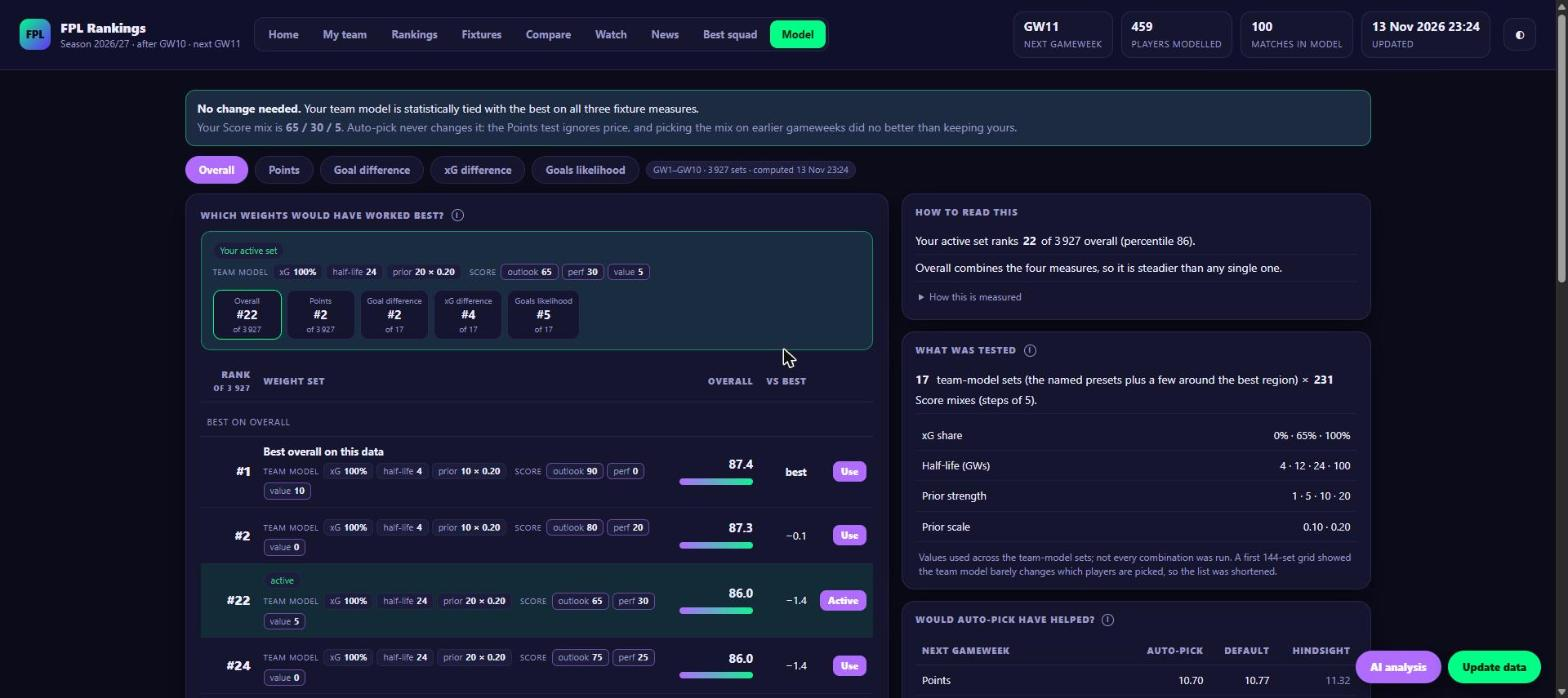
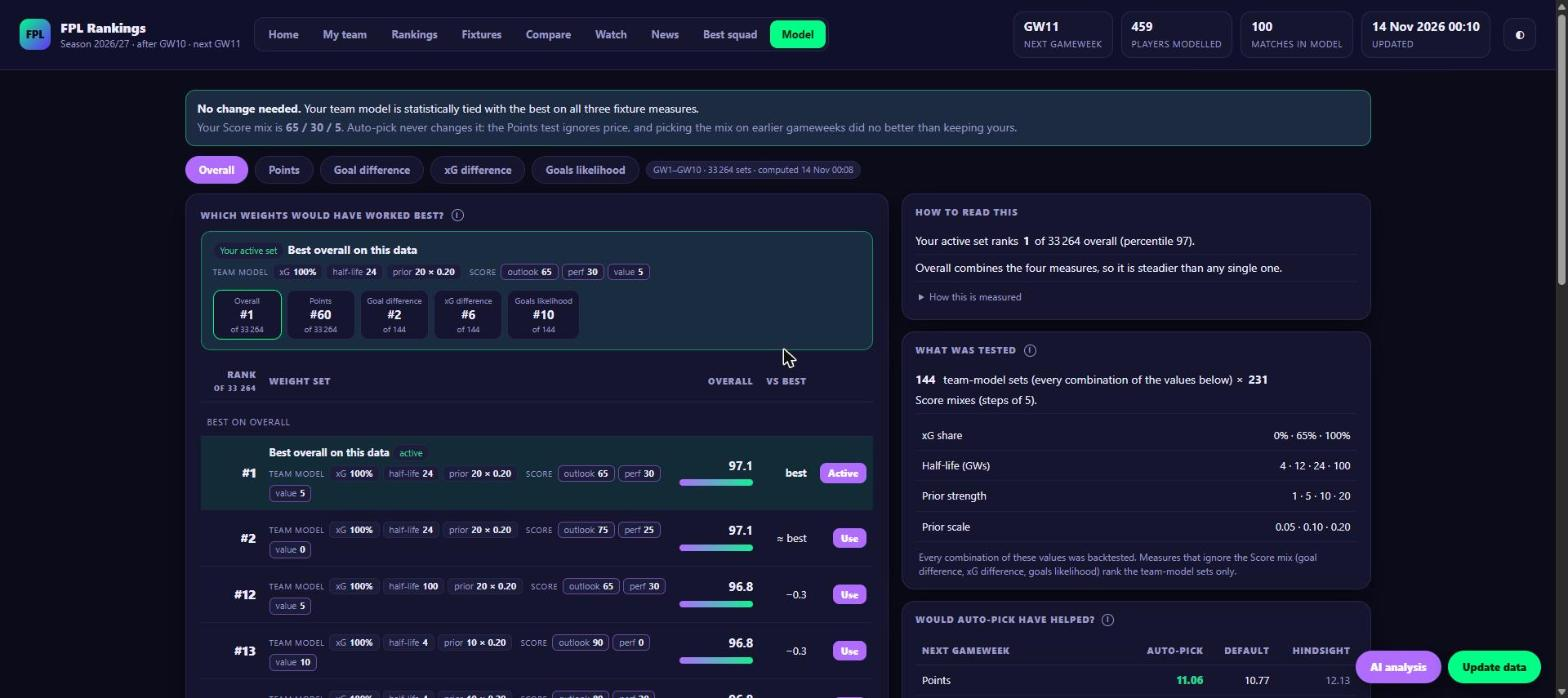
Restore the full 144-set team-model grid (33,264 sets)
- backtest: TM_SETS is the full product of xg_weight x half_life_gw x
  prior_strength x prior_scale (3 x 4 x 4 x 3). About 40 s once per finished
  gameweek instead of 5 s.
- Page text, README and docs/MODEL.md updated with the 144-set results:
  walk-forward (auto-pick ahead on all four measures on average, none clearly
  beyond the noise), and the past-season check (default ranks 45th of 144 on
  goal difference; this season's auto-pick is second best on past seasons).
- New screenshot and demo GIF.

diff --git a/app/board_template.html b/app/board_template.html
@@ -1152,9 +1152,9 @@ function viewModel() {
         <div class="mvline">${stabV === null ? '' : `Stability <b class="num">${stabV >= 0 ? '+' : ''}${stabV}</b>&nbsp;· `}${stab}</div>
         <details class="note"><summary>How this is measured</summary>Each set is refitted for every finished gameweek using only earlier data, then scored on what followed. One season and ${B.gws[1]} gameweeks: the best of ${B.n_sets.toLocaleString()} sets is flattered by being picked on the same data, so treat a tie as a tie. Points start at GW${B.pgws[0]} (the player model needs history). Goal difference, xG and likelihood do not depend on the Score mix, so those views list distinct team-model sets. xG-heavy sets are partly judged on the quantity they fit. The noise for Points allows for the 3-gameweek windows overlapping (Newey-West).</details></div>
       <div class="card section"><h3 class="panel-title">What was tested ${info('ws_params')}</h3>
-        <div class="mvline"><b class="num">${B.n_team}</b>&nbsp;team-model sets (the named presets plus a few around the best region) × <b class="num">${B.n_mix}</b> Score mixes (steps of 5).</div>
+        <div class="mvline"><b class="num">${B.n_team}</b>&nbsp;team-model sets (every combination of the values below) × <b class="num">${B.n_mix}</b> Score mixes (steps of 5).</div>
         <table class="mt"><tbody><tr><td>xG share</td><td class="r num">${g.xg_weight.map(v => Math.round(v * 100) + '%').join(' · ')}</td></tr><tr><td>Half-life (GWs)</td><td class="r num">${g.half_life_gw.join(' · ')}</td></tr><tr><td>Prior strength</td><td class="r num">${g.prior_strength.join(' · ')}</td></tr><tr><td>Prior scale</td><td class="r num">${g.prior_scale.map(v => v.toFixed(2)).join(' · ')}</td></tr></tbody></table>
-        <div class="note">Values used across the team-model sets; not every combination was run. A first 144-set grid showed the team model barely changes which players are picked, so the list was shortened.</div></div>
+        <div class="note">Every combination of these values was backtested. Measures that ignore the Score mix (goal difference, xG difference, goals likelihood) rank the team-model sets only.</div></div>
       ${WF ? `<div class="card section"><h3 class="panel-title">Would auto-pick have helped? ${info('ws_wf')}</h3>
         <table class="mt"><thead><tr><th>Next gameweek</th><th class="r">Auto-pick</th><th class="r">Default</th><th class="r" data-tip="The best set in hindsight on that gameweek: a ceiling no rule can reach." tabindex="0">Hindsight</th></tr></thead><tbody>
         ${[['pts', 'Points', 0], ['gd', 'Goal difference', 1], ['xgd', 'xG difference', 2], ['ll', 'Goals likelihood', 3]].map(([k, n, m]) => `<tr><td>${n}</td><td class="r num ${WF.team.diff[k].mean > 0 ? 'cmpbest' : ''}">${wsFmt(m, WF.team.picked[k])}</td><td class="r num">${wsFmt(m, WF.team.default[k])}</td><td class="r num muted">${wsFmt(m, WF.team.oracle[k])}</td></tr>`).join('')}

diff --git a/app/backtest.py b/app/backtest.py
@@ -137,14 +137,10 @@ def _fdr_summary(recs, gws):
 
 # ---------------------------------------------------------------- weight sets (team model + score weights)
 TM_KEYS = ("xg_weight", "half_life_gw", "prior_strength", "prior_scale")
-# The team-model sets that are backtested: the named presets first, then a few around the region that scored best. The
-# review of the first 144-set grid showed the team model barely changes which players are picked (87% of the variation in
-# Points came from the Score mix, 7% from the team model), so a short list gives the same answer in seconds.
-TM_SETS = [(0.65, 12, 5, 0.10), (0.65, 12, 20, 0.20), (0.65, 12, 1, 0.10), (0.65, 4, 5, 0.10), (0.65, 100, 5, 0.10),
-           (1.0, 12, 5, 0.10), (0.0, 12, 5, 0.10),
-           (0.65, 12, 10, 0.20), (1.0, 24, 20, 0.20), (1.0, 4, 10, 0.20), (0.65, 24, 10, 0.20), (0.65, 4, 10, 0.20),
-           (1.0, 12, 20, 0.20), (1.0, 100, 20, 0.20), (0.65, 12, 10, 0.10), (0.65, 12, 20, 0.10), (0.0, 12, 20, 0.20)]
-TM_GRID = {k: sorted({t[i] for t in TM_SETS}) for i, k in enumerate(TM_KEYS)}      # the values used, for display
+# Every combination of these values is backtested: 3 x 4 x 4 x 3 = 144 team-model sets (each refit takes about a millisecond).
+TM_GRID = {"xg_weight": [0.0, 0.65, 1.0], "half_life_gw": [4, 12, 24, 100],
+           "prior_strength": [1, 5, 10, 20], "prior_scale": [0.05, 0.10, 0.20]}
+TM_SETS = list(itertools.product(*TM_GRID.values()))
 WF_START = 6                                          # first gameweek of the walk-forward test (needs a few gameweeks of history)
 TM_DEFAULT = {"xg_weight": 0.65, "half_life_gw": 12, "prior_strength": 5.0, "prior_scale": 0.10}
 W_DEFAULT = (60, 25, 15)

diff --git a/tools/multi_season.py b/tools/multi_season.py
@@ -121,7 +121,7 @@ def main():
             ov = np.nanmean(np.concatenate([offs[s][k] for s in seasons]))
             offall = np.concatenate([offs[s_][k] for s_ in seasons]); dd = allT[k][d0] - offall
             print(f"   official FDR  {ov:+.4f}  (best set {v[best]:+.4f}, default {v[d0]:+.4f}); default minus FDR {np.nanmean(dd):+.4f} (se {float(bt._se(dd, 0)):.4f}), default better in {int((dd > 0).sum())} of {int((~np.isnan(dd)).sum())} gameweeks")
-    print("\nIs the ordering of sets stable from one season to the next? (rank correlation of the 17 set scores)")
+    print(f"\nIs the ordering of sets stable from one season to the next? (rank correlation of the {nS} set scores)")
     for k in ("gd", "xgd", "ll"):
         for a in range(len(seasons)):
             for b in range(a + 1, len(seasons)):

diff --git a/tests/test_core.py b/tests/test_core.py
@@ -161,7 +161,8 @@ class WeightSets(unittest.TestCase):
         for nm, x, _ in bt.PRESETS:
             self.assertIn(tuple(x[:4]), bt.TM_SETS, nm)
             self.assertIn(tuple(x[4:]), bt.MIX, nm)
-        self.assertEqual(bt._find({}, (0.65, 12, 5, 0.10, 60, 25, 15)), (0, bt.MIX.index((60, 25, 15))))
+        self.assertEqual(len(bt.TM_SETS), 144)
+        self.assertEqual(bt._find({}, (0.65, 12, 5, 0.10, 60, 25, 15)), (bt.TM_SETS.index((0.65, 12, 5, 0.10)), bt.MIX.index((60, 25, 15))))
         self.assertIsNone(bt._find({}, (0.5, 12, 5, 0.10, 60, 25, 15)))
 
     def test_overlap_aware_noise_is_never_below_the_plain_one(self):

diff --git a/docs/MODEL.md b/docs/MODEL.md
@@ -22,7 +22,7 @@ flowchart LR
     B --> C["② Fixture difficulty<br/>expected goals for / against"]
     C --> D["③ Expected points<br/>per player, per fixture"]
     D --> E["④ Score<br/>outlook · perf · value"]
-    F["Weight-set backtest<br/>3,927 sets"] -. "auto-pick chooses" .-> B
+    F["Weight-set backtest<br/>33,264 sets"] -. "auto-pick chooses" .-> B
     F -. "informs (you choose)" .-> E
 ```
 
@@ -97,13 +97,13 @@ The question it answers: ***which settings would have worked best so far?*** It 
 
 A set is seven numbers: the four team-model settings plus the three Score weights.
 
-- **Team model:** 17 sets (`xg_weight`, `half_life_gw`, `prior_strength`, `prior_scale`): the seven named presets plus ten around the region that scored best. Values used: `xg_weight` 0 / 0.65 / 1.0, `half_life_gw` 4 / 12 / 24 / 100, `prior_strength` 1 / 5 / 10 / 20, `prior_scale` 0.05 / 0.10 / 0.20. Not every combination is run.
+- **Team model:** 144 sets, every combination of `xg_weight` 0 / 0.65 / 1.0, `half_life_gw` 4 / 12 / 24 / 100, `prior_strength` 1 / 5 / 10 / 20 and `prior_scale` 0.05 / 0.10 / 0.20 (3 × 4 × 4 × 3).
 - **Score mix:** outlook / perf / value in steps of 5 summing to 100 (231 mixes).
 
-**17** team-model sets × **231** Score mixes = **3,927 sets**, each backtested in about five seconds.
+**144** team-model sets × **231** Score mixes = **33,264 sets**, each backtested in about 40 seconds, once per finished gameweek.
 
 > [!NOTE]
-> The first version ran a full 144-set grid of team models (33,264 sets, 40 seconds). Checking it showed that in the Points measure **87% of the variation came from the Score mix and only 7% from the team model**, and the default and the auto-picked team model produced almost the same player rankings (rank correlation 0.999; 8 of the top 8 defenders, 7 of 8 midfielders, 5 of 5 forwards and 3 of 3 goalkeepers identical). The team model mainly changes the fixture colours, so the list was shortened.
+> **Where the variation comes from.** In the Points measure **87% of the variation comes from the Score mix and only 7% from the team model**, and the default and the auto-picked team model produce almost the same player rankings (rank correlation 0.999; 8 of the top 8 defenders, 7 of 8 midfielders, 5 of 5 forwards and 3 of 3 goalkeepers identical). The team model mainly changes the fixture colours, not who is picked, so most of its 144 sets are statistically tied.
 
 ### The four measures
 
@@ -114,7 +114,7 @@ A set is seven numbers: the four team-model settings plus the three Score weight
 | **xG difference** | the same against the xG difference, which is less noisy than the score | team model only |
 | **Goals likelihood** | the average log-probability of the goals each team really scored under the set's expected goals (closer to 0 is better); rewards calibrated expected goals, not only a good ranking | team model only |
 
-The last three ignore the Score mix, so there are only **17 distinct scores** for them, each repeated for all 231 mixes. That is why those views rank "of 17" and Points ranks "of 3,927".
+The last three ignore the Score mix, so there are only **144 distinct scores** for them, each repeated for all 231 mixes. That is why those views rank "of 144" and Points ranks "of 33,264".
 
 > [!WARNING]
 > **Points ignores price.** It scores the top picks with no budget, so it always favours a low `value` weight. Use it to compare team models, not to decide how much price should matter. This is why auto-pick never changes your Score weights.
@@ -177,15 +177,15 @@ The fair test: for each test gameweek, choose using **only earlier gameweeks**, 
 
 | Team model, scored on the next gameweek | Auto-pick minus default |
 |---|---|
-| xG difference | **+0.103** ± 0.056 (better in 4 of 5) |
-| Goal difference | +0.100 ± 0.102 (3 of 5) |
-| Goals likelihood | +0.009 ± 0.009 (3 of 5) |
-| Points (default Score mix) | −0.07 ± 0.12 (1 of 5): no clear difference |
+| Goal difference | +0.104 ± 0.106 (better in 3 of 5) |
+| xG difference | +0.093 ± 0.066 (3 of 5) |
+| Goals likelihood | +0.009 ± 0.010 (4 of 5) |
+| Points (default Score mix) | +0.30 ± 0.23 (3 of 5) |
 
 Picking the **Score mix** the same way did no better than keeping 60 / 25 / 15 (−0.007 ± 0.16 points) and swung between very different mixes, choosing a value weight of 0 in four of five weeks. That is why auto-pick leaves the mix to you.
 
 > [!NOTE]
-> Five test gameweeks is very little: only large effects are visible. The team-model result is encouraging (it helps the fixture measures and does not hurt Points) but it is not proof.
+> Five test gameweeks is very little: only large effects are visible, and none of these differences is larger than about 1.4 times its noise. The direction is encouraging (it is ahead on all four measures on average, and the picks settled on xG only with `prior_strength` 20 and `prior_scale` 0.20 from GW9) but it is not proof. An earlier run with a shorter list of team-model sets gave a similar picture on the fixture measures (xG difference +0.10 ± 0.06) and no clear difference on Points in either direction (−0.07 ± 0.12 there, +0.30 ± 0.23 here), so the conclusion does not hinge on the list.
 
 ### Clean-sheet calibration
 
@@ -199,7 +199,7 @@ Over 180 team-fixtures the model predicts 23% clean sheets and 28% happened; the
 
 ## More data: past seasons
 
-This season only has ten gameweeks, so `tools/multi_season.py` re-scores the same 17 team-model sets on three past seasons (2022-23, 2023-24, 2024-25: 112 gameweeks) from the public archive [vaastav/Fantasy-Premier-League](https://github.com/vaastav/Fantasy-Premier-League). Only the three team-model measures can be compared: past seasons have no `defensive_contribution` points (introduced in 2025-26), and seasons before 2022-23 have no xG.
+This season only has ten gameweeks, so `tools/multi_season.py` re-scores the same 144 team-model sets on three past seasons (2022-23, 2023-24, 2024-25: 112 gameweeks) from the public archive [vaastav/Fantasy-Premier-League](https://github.com/vaastav/Fantasy-Premier-League). Only the three team-model measures can be compared: past seasons have no `defensive_contribution` points (introduced in 2025-26), and seasons before 2022-23 have no xG.
 
 ```
 python tools/multi_season.py        # downloads about 5 MB per season into data/history/ (git-ignored)
@@ -208,8 +208,8 @@ python tools/multi_season.py        # downloads about 5 MB per season into data/
 | | Result over 112 gameweeks |
 |---|---|
 | **Model vs FPL's official difficulty** | rank correlation of ease with goal difference: model **+0.47** (default) vs official **+0.35**, a gap of **+0.12 ± 0.02**, ahead in 79 of 112 gameweeks. Against xG difference: **+0.50** vs **+0.36**, gap **+0.14 ± 0.015**, ahead in 83 of 112. |
-| **Do the settings matter?** | Very little. On xG difference all 17 sets are within noise of each other except two. On goal difference 4 of 17 are tied with the best; the default ranks 13th, 0.025 behind (about 3 times the noise). |
-| **Is the ordering stable season to season?** | For goals likelihood, yes: rank correlations between seasons of +0.80 to +0.88. For goal difference, partly (+0.31 to +0.73). For xG difference, no (−0.63 to +0.14): that ordering is mostly noise. |
-| **Which direction wins consistently?** | On goals likelihood the best sets all use xG only with a strong pull toward FPL's ratings (`prior_strength` 10 to 20, `prior_scale` 0.20). The default's likelihood is −1.509 against −1.500 for the best: a small gap (0.6%) but about 3.5 times the noise. |
+| **Do the settings matter?** | Little. On xG difference 66 of 144 sets are tied with the best (the default is 21st, 0.004 behind, inside the noise). On goal difference 10 of 144 are tied with the best; the default ranks 45th, 0.025 behind (about 3 times the noise). |
+| **Is the ordering stable season to season?** | For goals likelihood, yes: rank correlations between seasons of +0.75 to +0.92. For goal difference, partly (+0.32 to +0.74). For xG difference, no (−0.35 to +0.71): that ordering is mostly noise. |
+| **Which direction wins consistently?** | On goals likelihood the best sets all use xG only with a strong pull toward FPL's ratings (`prior_strength` 10 to 20, `prior_scale` 0.20). The default's likelihood is −1.509 against −1.500 for the best (rank 37 of 144): a small gap (0.6%) but about 3.5 times the noise. This season's auto-pick, `xg_weight` 1.0 / `half_life_gw` 4 / `prior_strength` 20 / `prior_scale` 0.2, is the second best of all 144 on past-season goal difference. |
 
 Caveats: the archive stores each fixture's **final** difficulty rating (FPL publishes only the current one; this app now records it as it changes in `data/fdr_history.json`, so future comparisons use what was shown at the time); the official rating is deliberately coarse (2 to 5) and ties cost it some rank correlation, so read this as "clearly better at ranking fixtures", not as a precise margin; and only the team-model measures carry over, not Points.

diff --git a/README.md b/README.md
@@ -55,7 +55,7 @@ First run sets itself up (creates `data/` and `output/`, installs `numpy` and `s
 | Last check was less than `min_refresh_minutes` ago | no network at all |
 | Nothing changed (results, prices, injury news) | fetches ~2 MB, prints "Up to date", rebuilds nothing |
 | Something changed | re-fetches only the players whose minutes/points changed, rebuilds |
-| A gameweek has just finished (all matches done) | also re-runs the weight-set backtest (about 5 s, once) and, if auto-pick is on, adopts the best team-model set |
+| A gameweek has just finished (all matches done) | also re-runs the weight-set backtest (about 40 s, once) and, if auto-pick is on, adopts the best team-model set |
 
 **Flags:** `--force` (rebuild anyway) · `--offline` (cached data only) · `--open` (open the page) · `--serve` (local server with the Update button) · `--backtest` (print the backtest report)
 
@@ -69,7 +69,7 @@ First run sets itself up (creates `data/` and `output/`, installs `numpy` and `s
 | 🏟 **Team strength model** | Poisson attack/defence ratings fitted on finished matches, from a mix of xG and goals, recent matches weighing more. FPL's coarse 2-5 strength is only a prior that fades as matches are played, so a team expected to be bad that is performing well stops counting as an easy fixture. Home advantage is fitted too. |
 | 🎯 **Expected points** | Per fixture, for every player: appearance, goals, assists (xG/xA blended with actual output, shrunk toward the position average), clean sheets, goals conceded, saves, bonus, defensive contribution and cards, scaled by the fixture model and a minutes/availability model. Blank and double gameweeks are handled automatically. |
 | 📈 **Ranking** | Composite score = weighted percentiles (within each position) of projected points over a look-ahead window, season performance index, and points per £. Weights and horizon are adjustable live in the page. |
-| 🧪 **Backtest of all of it** | The Model tab re-runs the whole pipeline for every finished gameweek on earlier data only, and scores 3,927 combinations of settings. It can adopt the best team model for you after each gameweek (auto-pick), and tests whether that actually helps. |
+| 🧪 **Backtest of all of it** | The Model tab re-runs the whole pipeline for every finished gameweek on earlier data only, and scores 33,264 combinations of settings. It can adopt the best team model for you after each gameweek (auto-pick), and tests whether that actually helps. |
 | 🗂 **Page tabs** | Overview (top 8 per position), Rankings (filters, sortable, expandable breakdown per player), Teams & fixtures (current vs preseason rating, difficulty grid), Best squad (integer-programming optimiser: budget, 3 per club, valid formation), My team (swap suggestions, needs `fpl_team_id`), Model (the backtest). More under [Pages](#-pages). |
 
 ---
@@ -84,7 +84,7 @@ flowchart LR
     B --> C["2 Fixture difficulty<br/>expected goals for / against"]
     C --> D["3 Expected points<br/>per player, per fixture"]
     D --> E["4 Score<br/>outlook · perf · value"]
-    F["Weight-set backtest<br/>3,927 sets"] -. "auto-pick chooses" .-> B
+    F["Weight-set backtest<br/>33,264 sets"] -. "auto-pick chooses" .-> B
     F -. "informs (you choose)" .-> E
 ```
 
@@ -124,7 +124,7 @@ flowchart LR
 
 The question it answers: ***which settings would have worked best so far?*** It re-runs the pipeline for every finished gameweek **using only data from before that gameweek**, then scores it on what actually happened. Nothing from the future leaks in.
 
-- **A set is seven numbers:** the four team-model settings plus the three Score weights. 17 team-model sets × 231 Score mixes = **3,927 sets**, each backtested (about 5 seconds, once per gameweek).
+- **A set is seven numbers:** the four team-model settings plus the three Score weights. 144 team-model sets × 231 Score mixes = **33,264 sets**, each backtested (about 40 seconds, once per finished gameweek).
 - **Four measures:**
 
   | Measure | What it checks |
@@ -155,7 +155,7 @@ When a gameweek has fully finished (all matches done, FPL's `finished` flag), th
 | **Revert last pick** | Puts back the values the last pick replaced and turns auto-pick off. Every pick is logged. |
 
 > [!NOTE]
-> **Did it help?** Tested by choosing on earlier gameweeks only and scoring on the next one (GW6 to GW10): auto-pick improved the fixture measures (xG difference +0.10 ± 0.06) and made no clear difference to Points. Five test gameweeks is very little, so it is encouraging, not proof. See [the walk-forward test](docs/MODEL.md#would-auto-pick-have-helped-walk-forward).
+> **Did it help?** Tested by choosing on earlier gameweeks only and scoring on the next one (GW6 to GW10): auto-pick was ahead on all four measures on average (xG difference +0.09 ± 0.07, Points +0.30 ± 0.23) but none of the gaps is clearly bigger than the noise. Five test gameweeks is very little, so it is encouraging, not proof. See [the walk-forward test](docs/MODEL.md#would-auto-pick-have-helped-walk-forward).
 
 ---
 
@@ -217,7 +217,7 @@ LICENSE         MIT
 CONTRIBUTING.md how to report bugs and send pull requests
 prefs.json      preferences
 app/            fpl_data.py (API + cache), fpl_model.py (team strength + expected points), backtest.py (accuracy,
-                official-FDR comparison, 3.9k weight sets), autopick.py, fpl_report.py, fpl_extra.py, fpl_news.py,
+                official-FDR comparison, 33k weight sets), autopick.py, fpl_report.py, fpl_extra.py, fpl_news.py,
                 server.py, board_template.html
 docs/           MODEL.md (full model + backtest explanation), demo.gif and screenshots used in this README
 data/           cached API data, state.json, backtest.json, backtest_sets.json/.npz, auto_pick.json, my_team_cache.json,
